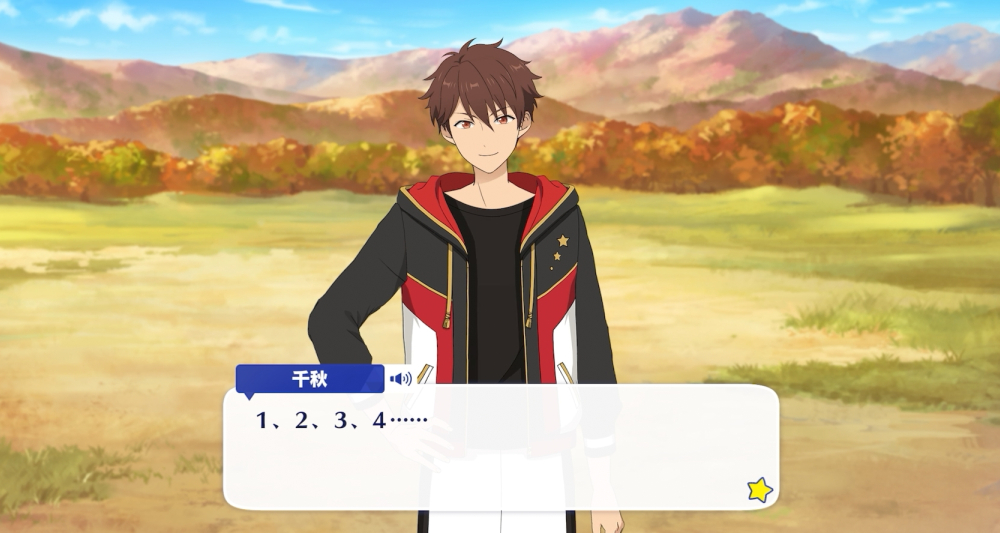
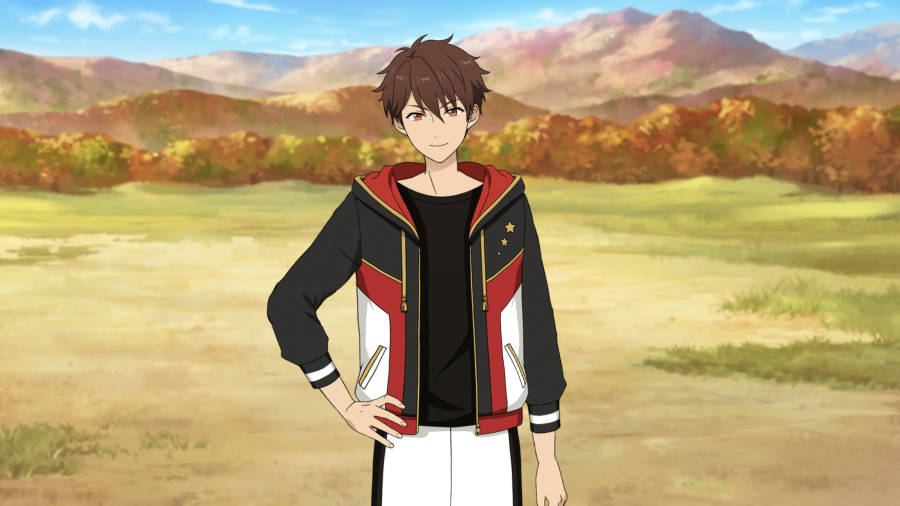
update

diff --git a/source/css/esexp.css b/source/css/esexp.css
@@ -45,6 +45,9 @@
 [character="Midori"][idle] {
   --icon:url("https://cdn.jsdelivr.net/gh/310mc/css@latest/img/midori_serious.png");
 }
+[character="Midori"][norsmile] {
+  --icon:url("https://cdn.jsdelivr.net/gh/310mc/css@latest/img/midori_norsmile.png");
+}
 [character="Midori"][northinking] {
   --icon:url("https://cdn.jsdelivr.net/gh/310mc/css@latest/img/midori_northinking.png");
 }
@@ -92,9 +95,6 @@
 }
 [character="Midori"][smile2] {
   --icon:url("https://cdn.jsdelivr.net/gh/310mc/css@latest/img/midori_smile2.png");
-}
-[character="Midori"][smile3] {
-  --icon:url("https://cdn.jsdelivr.net/gh/310mc/css@latest/img/midori_smile3.png");
 }
 [character="Midori"][smile4] {
   --icon:url("https://cdn.jsdelivr.net/gh/310mc/css@latest/img/midori_smile4.png");

diff --git a/source/_posts/climax/minitalk/midori_1.md b/source/_posts/climax/minitalk/midori_1.md
@@ -99,7 +99,7 @@ I just wanna go home and relax…
 				<li><a data-tab="1b-r">Possibility 2</a></li>
 			</ul>
 			<div data-tab="1b-n">
-            	{% bubble Midori smile3 %}
+            	{% bubble Midori norsmile %}
 							Yes. We're going to have a farewell party at the Basketball Club.
 
         We'll celebrate our upperclassmen's graduation and have fun with sweets and stuff.
@@ -122,7 +122,7 @@ I just wanna go home and relax…
 
 ## <div mt="rare"></div> 2/3
 {% img /img/es/eventstory/climax/minitalk_midori1_2.jpg %}
-{% bubble Midori smile3 %}
+{% bubble Midori norsmile %}
 Hello, Anzu-san. What're you doing here so early in the morning…?
 
 Yes, I'm helping my family with the store.
@@ -141,7 +141,7 @@ If you're looking for a particular shop, I can help you.
 				<li><a data-tab="1a-r">Possibility 2</a></li>
 			</ul>
 			<div data-tab="1a-n">
-            	{% bubble Midori smile3 %}
+            	{% bubble Midori norsmile %}
 							You'll cook some for lunch? Ahh, you'll cook food for you at the cafeteria…
 
         You make use of that in school, huh?
@@ -150,7 +150,7 @@ If you're looking for a particular shop, I can help you.
 					{% endbubble %}
 			</div>
 			<div data-tab="1a-r" style="display: none">
-            	{% bubble Midori smile3 %}
+            	{% bubble Midori norsmile %}
 							…You want avocadoes? Yes, we have some.
               {% endbubble %}
               {% bubble Midori frown %}
@@ -171,7 +171,7 @@ If you're looking for a particular shop, I can help you.
 				<li><a data-tab="1b-r">Possibility 2</a></li>
 			</ul>
 			<div data-tab="1b-n">
-            	{% bubble Midori smile3 %}
+            	{% bubble Midori norsmile %}
 							Ohh, you carry some in case anyone gets injured?
 
         …It's true that there can be a few small accidents when practicing a dance routine.

diff --git a/source/_posts/supervillain/minitalk/midori_1.md b/source/_posts/supervillain/minitalk/midori_1.md
@@ -66,7 +66,7 @@ Oh wow, what a coincidence. I'm on my way to the rental shop 'cause I have somet
             What is it?
         </div>
         <div class="minitalk-option_content">
-            {% bubble Midori smile3 %}
+            {% bubble Midori norsmile %}
             I just found out there's an anime with a kinda mascot-like, soft-looking protagonist.
 
             I wanted to watch it to heal myself a little. Are you watching it too, Anzu-san? I haven't yet, so I still don't know if it's interesting or not.
@@ -90,7 +90,7 @@ Oh wow, what a coincidence. I'm on my way to the rental shop 'cause I have somet
             Do you know of any interesting media?
         </div>
         <div class="minitalk-option_content">
-            {% bubble Midori smile3 %}
+            {% bubble Midori norsmile %}
             Hmm… I don't really watch that much stuff, honestly.
 
             Ah— This one tokusatsu movie Morisawa-senpai showed me before was pretty interesting. I watched it a long time ago though, so I don't even remember the name anymore…
@@ -152,7 +152,7 @@ What about you, Anzu-san? Do you usually watch movies?
 
 {% img /img/es/eventstory/supervillain/minitalk_midori1_3.jpg %}
 
-{% bubble Midori smile3 %}
+{% bubble Midori norsmile %}
 You were able to rent the DVD you wanted? I'm glad…♪
 
 We spent the whole time just talking about interesting series and our recommendations, that I didn't even realize the day went by…

diff --git a/source/_posts/sweet_halloween/sweet_home_p2.md b/source/_posts/sweet_halloween/sweet_home_p2.md
@@ -236,7 +236,7 @@ Horr—…!? Huh!? Why're you…!? It isn’t the season for ghost stories anymo
 Besides, uh, there’s no TV in the dojo! So you can’t watch a movie, right!?
 {% endbubble %}
 
-{% bubble Midori smile3 %}
+{% bubble Midori norsmile %}
 That’s not a problem, I brought over everything we need…
 
 There was an extra monitor in the AV room, right? I got permission from Anzu-san to use it…
@@ -536,7 +536,7 @@ So there’s no reason why *you* should be the only one to get away with saying 
 U-Uuu! It hurts when you say that!
 {% endbubble %}
 
-{% bubble Midori smile3 %}
+{% bubble Midori norsmile %}
 <em><th>(whispering)</th></em> So you really *are* bad with horror, Morisawa-senpai… That’s why you don’t seem to like Halloween either, right…? Since it has lots of monsters…
 {% endbubble %}
 

diff --git a/source/_posts/sweet_halloween/dis_harmony.md b/source/_posts/sweet_halloween/dis_harmony.md
@@ -132,7 +132,7 @@ I can’t deal with arguments or fights, so I’d run away as soon as things get
 Like, I don’t even talk to any friend from junior high anymore…
 {% endbubble %}
 
-{% bubble Midori smile3 %}
+{% bubble Midori norsmile %}
 That’s why I always thought you two had it pretty lucky… I'm kinda jealous…
 
 You should make up with him as soon as possible… It’s pretty hard to find a lifelong friend like him…
@@ -788,7 +788,7 @@ Ah, I have air fresheners. There’s one with a nice odor, one that’s odorless
 I even have an odor neutralizer perfumers use~♪
 {% endbubble %}
 
-{% bubble Midori smile3 %}
+{% bubble Midori norsmile %}
 You’ve always got a lot of useful stuff with you, Shino-kun… You’re like Doraemon…♪
 {% endbubble %}
 

diff --git a/source/_posts/supervillain/supersized_villain_p2.md b/source/_posts/supervillain/supersized_villain_p2.md
@@ -642,7 +642,7 @@ I swear to you — This time around, I won’t make any bit of that go to waste.
 “ryusei black, number three! shinkai kanata!”
 {% endbubble %}
 
-{% bubble Midori smile3 %}
+{% bubble Midori norsmile %}
 “The embodiment of the blackened earth and great nature! Ryusei Black No.4, Takamine Midori!”
 {% endbubble %}
 
@@ -718,7 +718,7 @@ yes, but~ it is surprisingly [fun] to [imitate] someone~♪
 Exactly what a “transformation” is all about.
 {% endbubble %}
 
-{% bubble Midori smile3 %}
+{% bubble Midori norsmile %}
 Well, it works as a good rehearsal for the filming of Supervillains…
 
 With the usual Ryuseitai, I don’t really get to play as a villain ‘cause Morisawa-senpai doesn’t like those roles much, so this feels new…

diff --git a/source/_posts/supervillain/minitalk/midori_2.md b/source/_posts/supervillain/minitalk/midori_2.md
@@ -176,7 +176,7 @@ Either way, thank you so much for hearing me out, Anzu-san.
             You can always rely on me.
         </div>
         <div class="minitalk-option_content">
-            {% bubble Midori smile3 %}
+            {% bubble Midori norsmile %}
             Mmm~… I feel like I've said this before but, I don't feel right to give more work to someone who's already so busy…
 
             That's why this time around, I'm just grateful to know you feel that way. I don't really like it when all I do is just depend on others, anyway.

diff --git a/source/_posts/scout/beasts.md b/source/_posts/scout/beasts.md
@@ -1542,7 +1542,7 @@ But I felt somethin’ light up in me. I know for *sure* I can become a man amon
 One day, I’ll even become a man who can proudly stand in front of Taishou and Taichou — to everyone, even the *Sun* itself!
 {% endbubble %}
 
-{% bubble Midori smile3 %}
+{% bubble Midori norsmile %}
 Huh… I don’t fully get it, but you do seem a little different lately…
 
 Our classmates have been saying the same, too…

diff --git a/source/_posts/supervillain/supersized_villain.md b/source/_posts/supervillain/supersized_villain.md
@@ -706,7 +706,7 @@ Ehh~… I dunno what it is, but I don’t really vibe with this Tetora-kun… He
 I mean, if we weren’t in the same unit, I doubt we’d have ever spoken to each other in the first place, you feel me?
 {% endbubble %}
 
-{% bubble Midori smile3 %}
+{% bubble Midori norsmile %}
 Yeah, I know what you mean… Fate’s really a strange thing, isn’t it?
 {% endbubble %}
 

diff --git a/source/_posts/sweet_halloween/lets_party.md b/source/_posts/sweet_halloween/lets_party.md
@@ -824,7 +824,7 @@ Ahh, man… If only I were lazing around at home, it would’ve been way more re
 Besides, no one’ll notice shooting stars if they don’t shine when they fly by… That'd be kinda sad, and maybe lonely…
 {% endbubble %}
 
-{% bubble Midori smile3 %}
+{% bubble Midori norsmile %}
 That’s why I’ll do my best, at least once in a while…♪
 {% endbubble %}
 

diff --git a/source/_posts/climax/heroes_of_the_future.md b/source/_posts/climax/heroes_of_the_future.md
@@ -704,7 +704,7 @@ What’s so “depressing”!? What’s making you “want to die”!? Is this r
 Promise me that. This is my wish right now, so please make it come true, Ryuseitai.
 {% endbubble %}
 
-{% bubble Midori smile3 %}
+{% bubble Midori norsmile %}
 You’re still part of Ryuseitai, aren't you…? So will you make my wish come true, too…?
 {% endbubble %}
 
